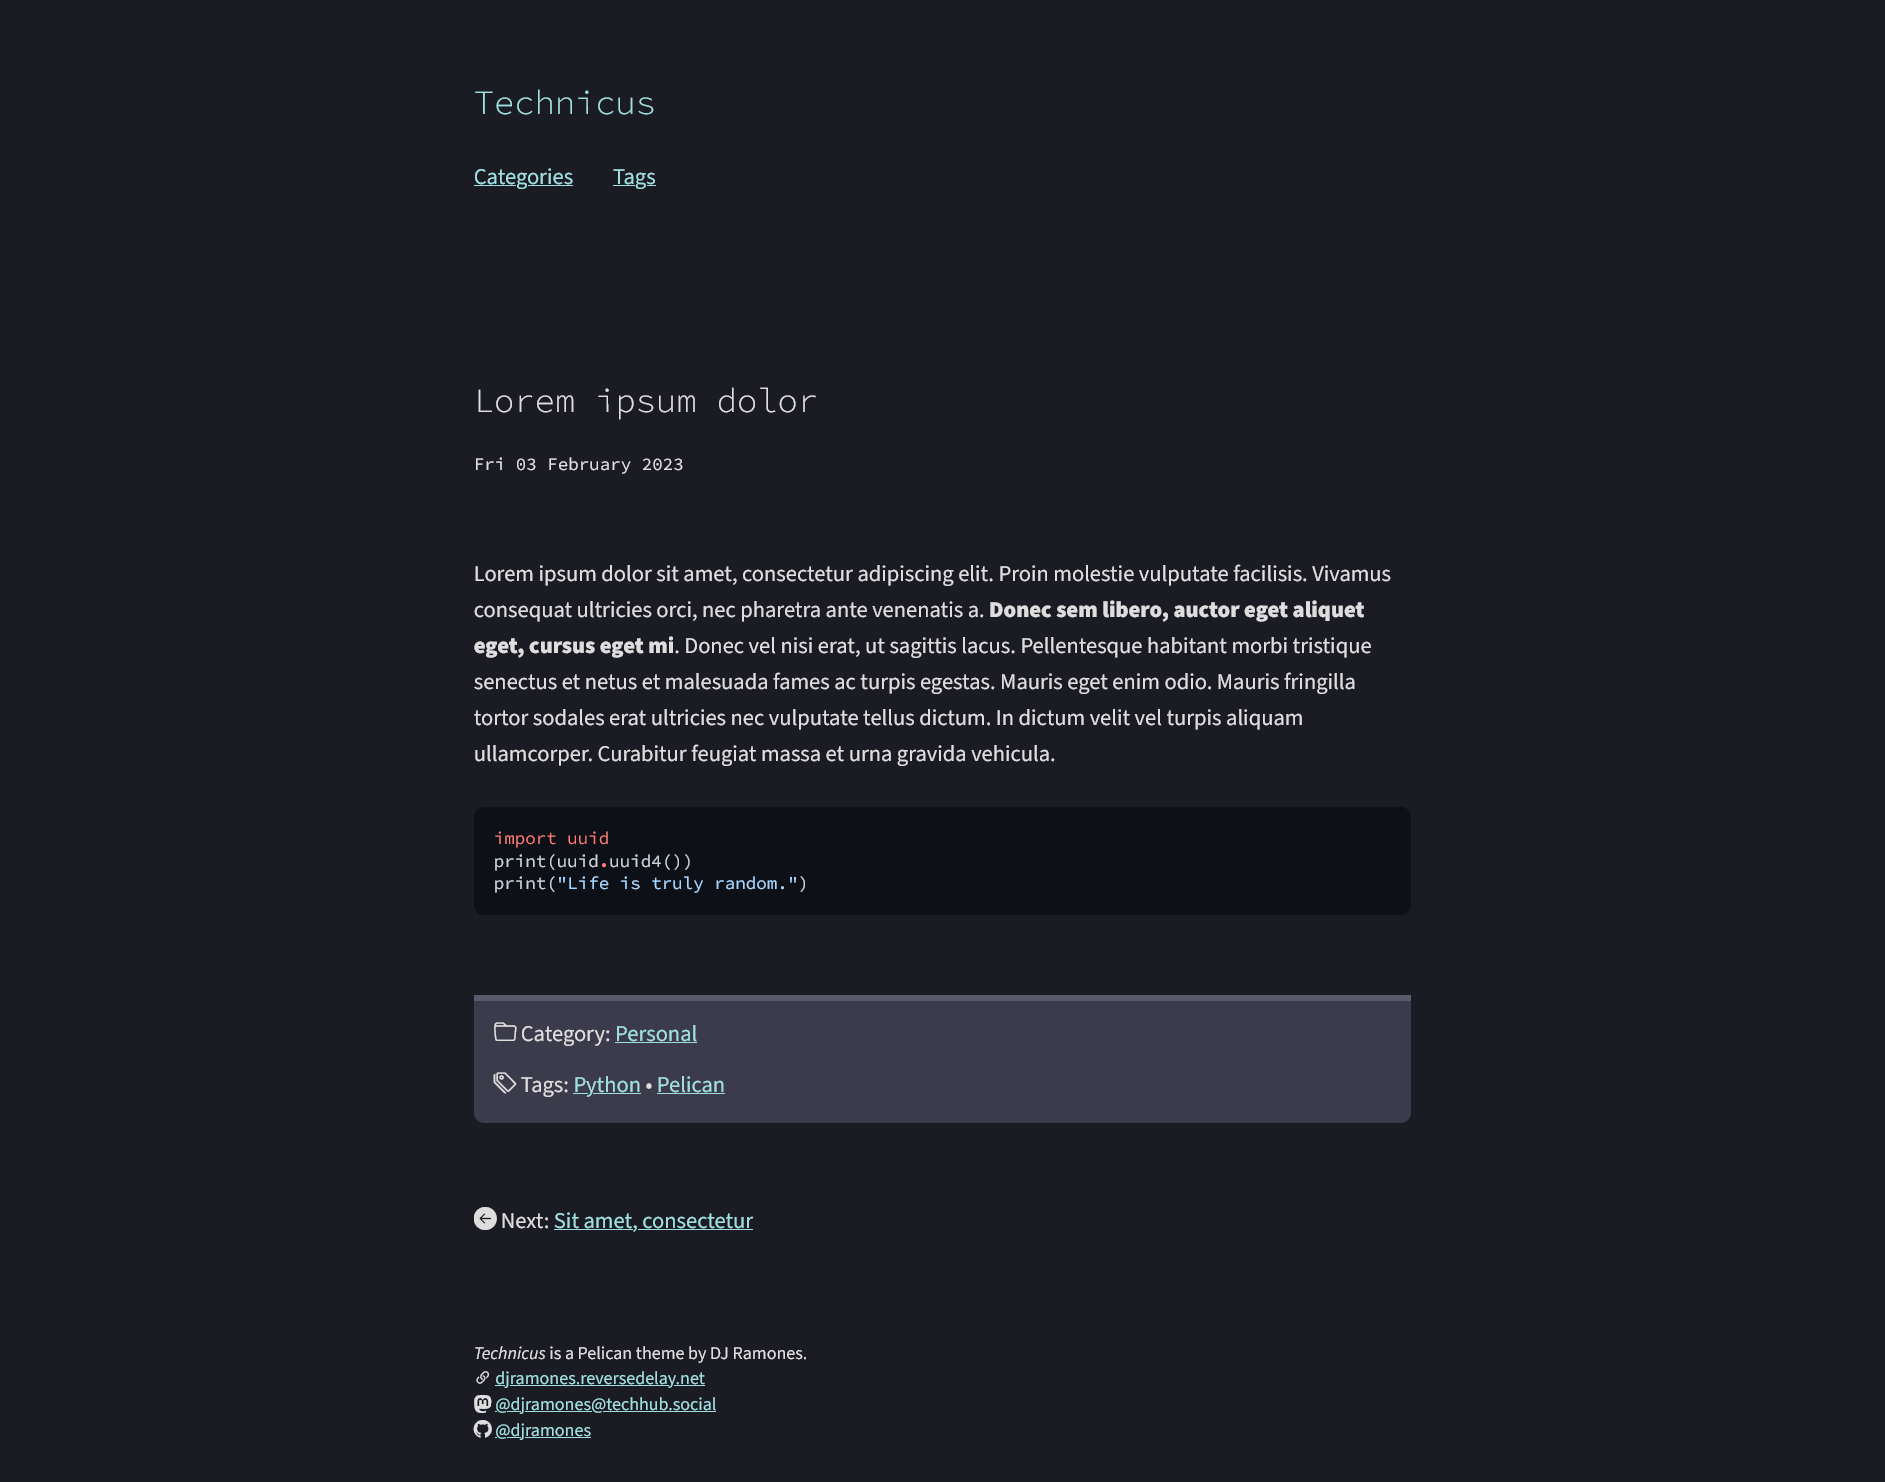
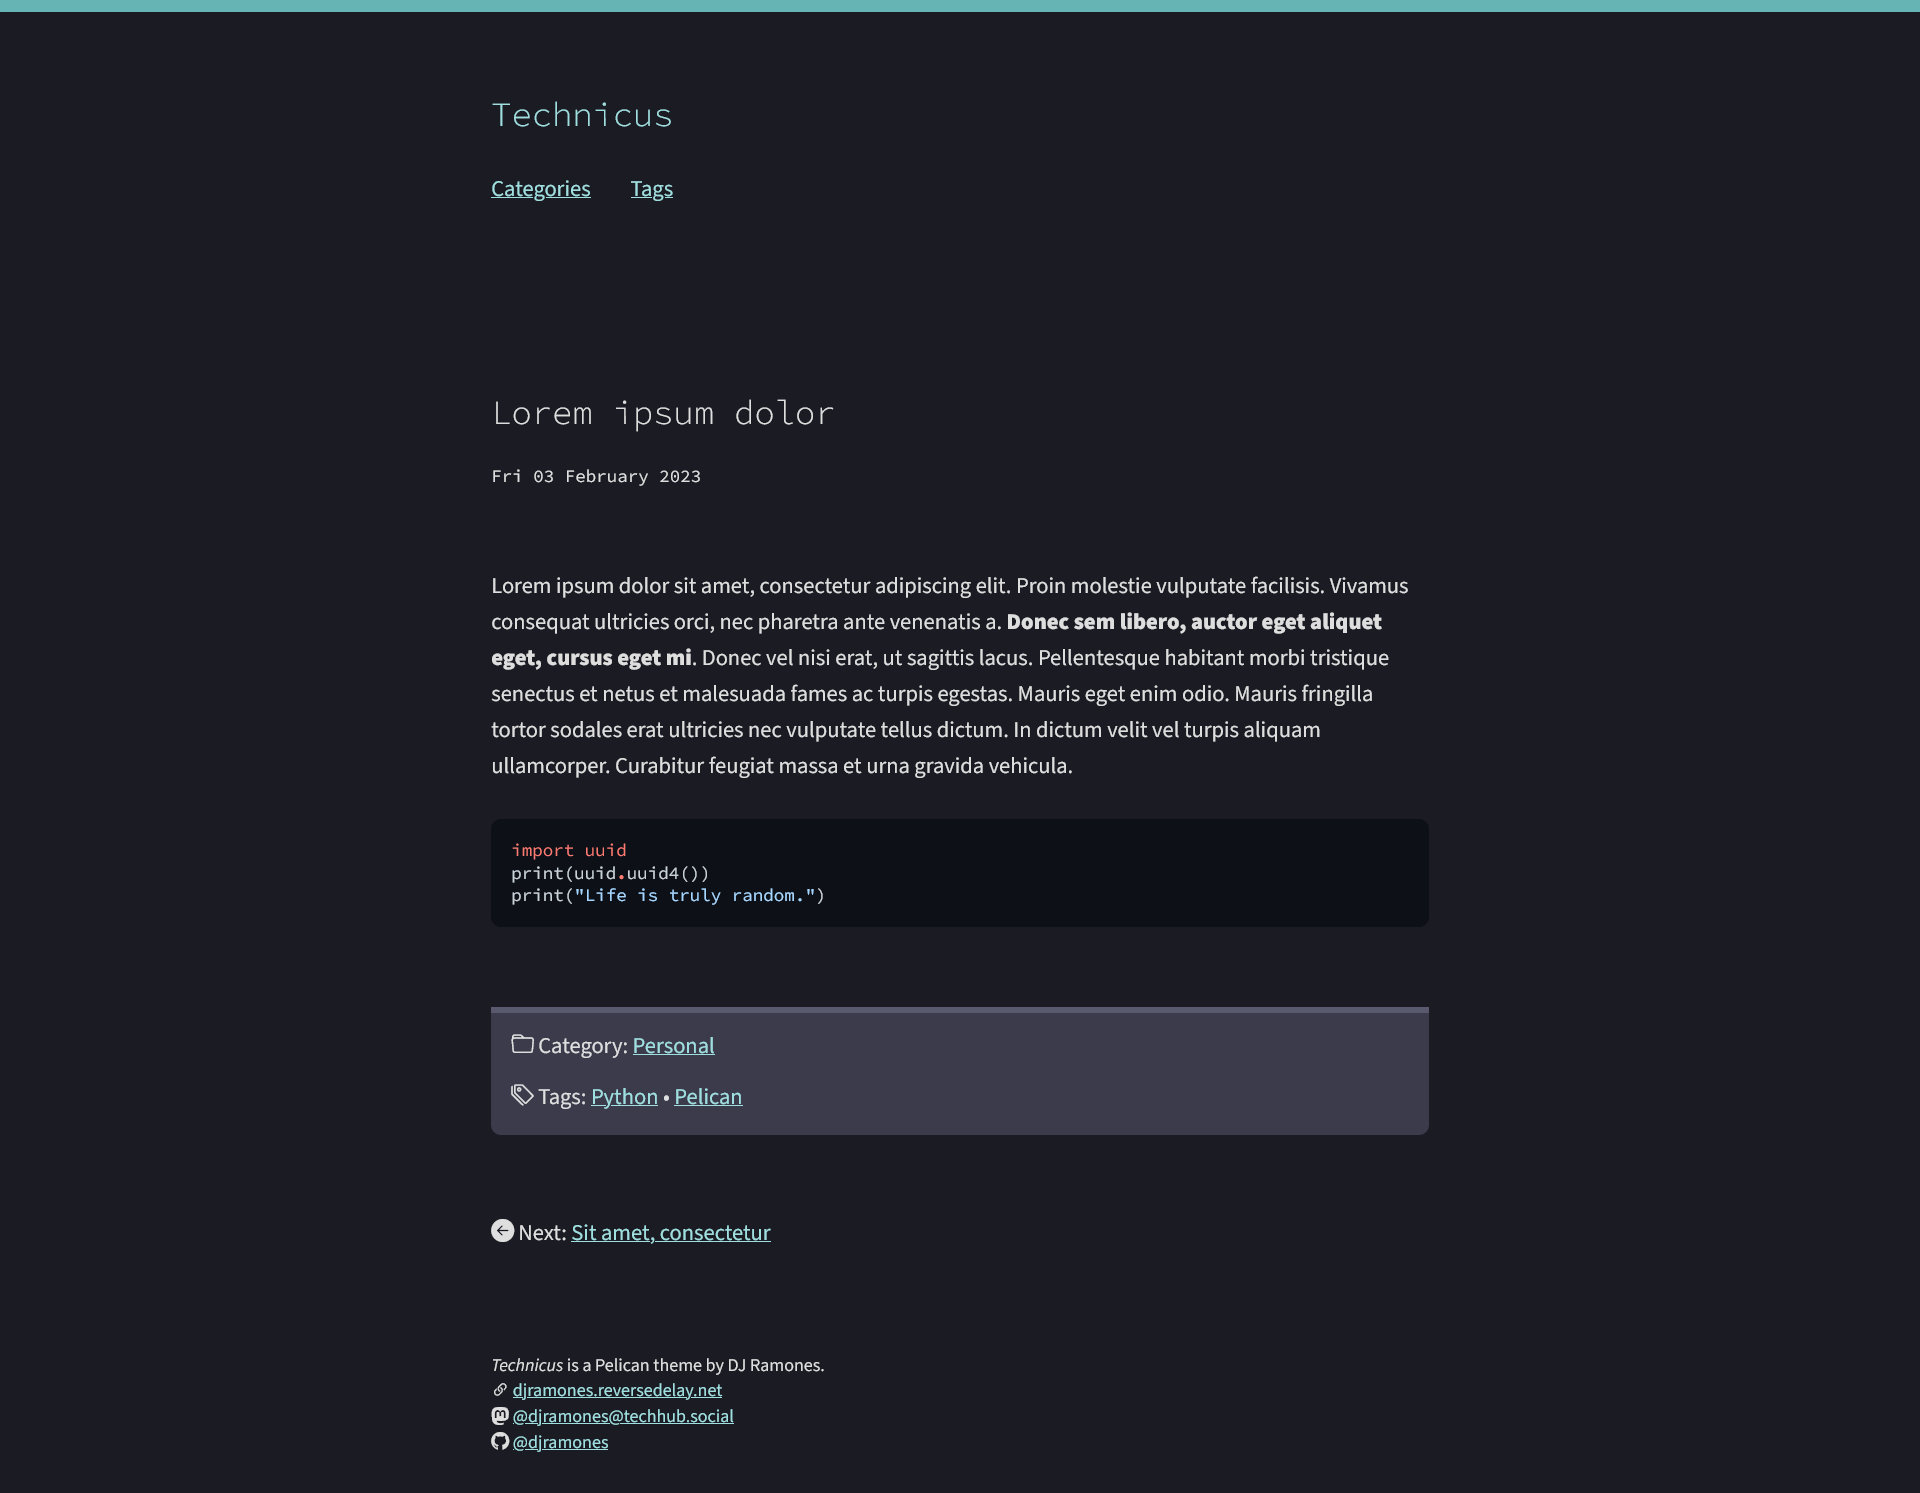
Add page-top and hr element styles

diff --git a/technicus/static/css/style.css b/technicus/static/css/style.css
@@ -1,3 +1,8 @@
+html {
+    border-top: .6rem solid rgb(103, 180, 180);
+    background-color: #1b1b24;
+    color: rgb(222, 222, 222);
+}
 body {
     display: grid;
     grid-template-rows: auto auto 1fr auto;
@@ -5,8 +10,6 @@ body {
     max-width: 750px;
     margin: 0 auto;
     padding: 0 1.5rem;
-    background-color: #1b1b24;
-    color: rgb(222, 222, 222);
 }
 body > header > h1 {
     margin: 4rem 0 0;
@@ -123,6 +126,13 @@ blockquote {
     margin-inline: 0 1rem;
     border-inline-start: 3px solid #3b3b4c;
     padding-inline-start: 1.4rem;
+}
+hr {
+    width: 70%;
+    height: 1px;
+    border: 0;
+    background-color: #5a5a6f;
+    margin: 2.5rem auto;
 }
 
 /* Links */
